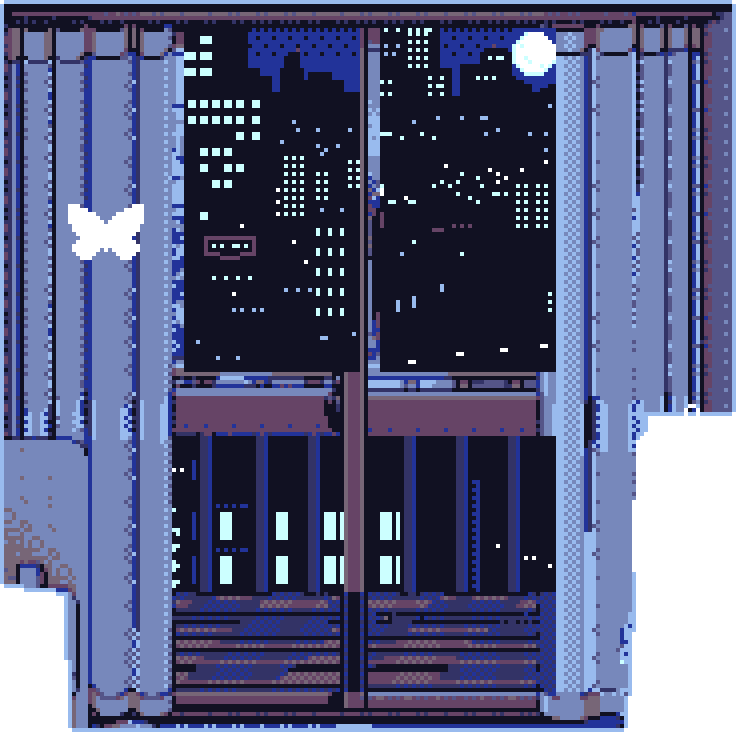
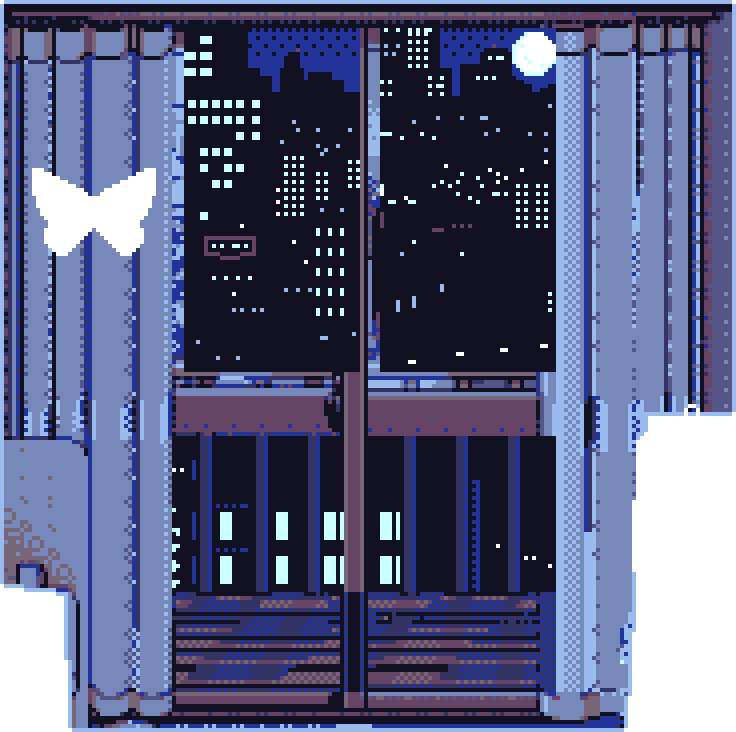
Panda's Room: object size follows how much each account gets used
Art from pc98-assets 3e98b9b. The newspaper (Substack, rank 4) is now an open broadsheet in the moonlit patch on the
floor, 2.5x its old size and fourth largest; the phone (rank 2) is as big as a phone on a bed can be, with a chat
open and its light on the sheets (4.6x the hotspot); the butterfly and letter grew; the TV, console, Kitsu tapes (now
on the TV) and Bump map shrank. Every hotspot keeps at least 96% of its own pixels.

Changed region(s): [[0.0312, 0.2104, 0.2188, 0.3607]]

diff --git a/js/room-data.js b/js/room-data.js
@@ -16,11 +16,11 @@
 // Keep each box <= 48 characters and use straight quotes (the pc-98 font draws curly ones full-width).
 window.ROOM = {
     scene: {
-        src: "/img/room/room@4x.png?v=5",
+        src: "/img/room/room@4x.png?v=6",
         width: 500,
         height: 357,
         // city lights: an 8-frame strip stepped like PC-98 palette cycling (the export's twinkle.json)
-        twinkle: { src: "/img/room/twinkle@4x.png?v=5", x: 191, y: 68, w: 92, h: 87, frames: 8, fps: 2 }
+        twinkle: { src: "/img/room/twinkle@4x.png?v=6", x: 191, y: 68, w: 92, h: 87, frames: 8, fps: 2 }
     },
 
     zOrder: ["controller", "kitsu", "tv", "butterfly", "linkedin", "letter", "stackoverflow", "phone", "lesswrong",
@@ -38,9 +38,9 @@ window.ROOM = {
             name: "Window",
             service: "Twitter",
             rank: 1,
-            polygon: [[146, 60], [328, 60], [328, 162], [308, 162], [306, 164], [306, 168], [304, 169], [301, 241], [163, 241], [162, 209], [159, 206], [146, 205], [146, 61]],
-            anchor: [233, 145],
-            lit: { src: "/img/room/lit/window@4x.png?v=5", x: 145, y: 59, w: 184, h: 183 },
+            polygon: [[146, 60], [328, 60], [328, 162], [320, 162], [319, 160], [317, 160], [316, 162], [308, 162], [308, 163], [306, 164], [306, 168], [304, 169], [304, 184], [303, 184], [303, 217], [302, 217], [302, 233], [301, 233], [301, 241], [163, 241], [163, 224], [162, 224], [162, 209], [161, 209], [161, 208], [160, 208], [159, 206], [151, 206], [151, 205], [146, 205], [146, 61]],
+            anchor: [234, 146],
+            lit: { src: "/img/room/lit/window@4x.png?v=6", x: 145, y: 59, w: 184, h: 183 },
             hover: "E-everything looks so p-pretty at night...",
             click: [
                 "The town, the people... we're all family.",
@@ -57,10 +57,9 @@ window.ROOM = {
             name: "Phone",
             service: "Discord / Signal",
             rank: 2,
-            polygon: [[102, 236], [118, 239], [118, 241], [113, 245], [107, 246], [95, 244], [95, 242], [102, 237]],
-            anchor: [106, 241],
-            lit: { src: "/img/room/lit/phone@4x.png?v=5", x: 94, y: 235, w: 25, h: 12 },
-            hit: [[90, 231], [123, 231], [123, 251], [90, 251]], // padded: the object itself is tiny
+            polygon: [[112, 249], [124, 249], [124, 250], [132, 250], [132, 251], [138, 251], [138, 252], [139, 252], [139, 256], [138, 256], [138, 257], [137, 257], [137, 258], [136, 258], [136, 259], [135, 259], [135, 260], [134, 260], [134, 261], [133, 261], [133, 262], [132, 262], [132, 263], [131, 263], [131, 264], [130, 264], [130, 265], [129, 265], [128, 267], [126, 267], [125, 269], [119, 270], [119, 271], [113, 271], [113, 270], [107, 270], [107, 269], [101, 269], [101, 268], [94, 268], [94, 267], [92, 266], [92, 264], [93, 264], [93, 262], [94, 262], [95, 260], [97, 260], [97, 259], [98, 259], [98, 258], [99, 258], [100, 256], [102, 256], [102, 255], [103, 255], [104, 253], [106, 253], [107, 251], [109, 251], [109, 250], [112, 250]],
+            anchor: [115, 259],
+            lit: { src: "/img/room/lit/phone@4x.png?v=6", x: 91, y: 248, w: 49, h: 24 },
             hover: "Eh? My phone's buzzing... is that you?",
             click: [
                 "On Discord, you can call me vivalapanda.",
@@ -78,9 +77,9 @@ window.ROOM = {
             name: "PC",
             service: "GitHub",
             rank: 3,
-            polygon: [[373, 135], [421, 136], [428, 138], [428, 180], [424, 184], [431, 187], [431, 192], [390, 192], [390, 189], [387, 186], [381, 184], [386, 180], [382, 176], [375, 175], [375, 138], [373, 136]],
+            polygon: [[373, 135], [396, 135], [396, 136], [421, 136], [421, 137], [425, 137], [425, 138], [428, 138], [428, 180], [427, 180], [427, 181], [426, 181], [426, 182], [425, 182], [424, 184], [425, 184], [426, 186], [429, 186], [429, 187], [431, 187], [431, 192], [390, 192], [390, 189], [389, 189], [389, 188], [388, 188], [387, 186], [385, 186], [385, 185], [381, 184], [381, 183], [384, 183], [384, 182], [385, 182], [386, 180], [385, 180], [385, 179], [384, 179], [384, 178], [383, 178], [382, 176], [376, 176], [376, 175], [375, 175], [375, 138], [374, 138], [374, 136], [373, 136]],
             anchor: [402, 161],
-            lit: { src: "/img/room/lit/pc@4x.png?v=5", x: 372, y: 134, w: 60, h: 59 },
+            lit: { src: "/img/room/lit/pc@4x.png?v=6", x: 372, y: 134, w: 60, h: 59 },
             hover: "I keep falling asleep at that computer...",
             click: [
                 "My true love has always been my computer.",
@@ -97,9 +96,9 @@ window.ROOM = {
             name: "Newspaper",
             service: "Substack",
             rank: 4,
-            polygon: [[86, 246], [127, 249], [127, 251], [106, 271], [98, 271], [60, 268], [61, 264], [86, 247]],
-            anchor: [94, 258],
-            lit: { src: "/img/room/lit/newspaper@4x.png?v=5", x: 59, y: 245, w: 69, h: 27 },
+            polygon: [[240, 294], [249, 294], [249, 295], [260, 295], [260, 296], [270, 296], [270, 297], [281, 297], [281, 298], [291, 298], [291, 299], [296, 299], [296, 303], [297, 303], [297, 310], [298, 310], [298, 317], [299, 317], [299, 325], [300, 325], [300, 332], [301, 332], [301, 339], [302, 339], [302, 344], [297, 344], [297, 343], [289, 343], [289, 342], [281, 342], [281, 341], [272, 341], [272, 340], [264, 340], [264, 339], [255, 339], [255, 338], [247, 338], [247, 337], [239, 337], [239, 336], [234, 336], [234, 330], [235, 330], [235, 324], [236, 324], [236, 318], [237, 318], [237, 312], [238, 312], [238, 306], [239, 306], [239, 300], [240, 300], [240, 295]],
+            anchor: [268, 318],
+            lit: { src: "/img/room/lit/newspaper@4x.png?v=6", x: 233, y: 293, w: 70, h: 52 },
             hover: "Heh. Who knew my essays could be interesting?",
             click: [
                 "I write about cities on my Substack.",
@@ -116,9 +115,9 @@ window.ROOM = {
             name: "Bookshelf",
             service: "Reading list",
             rank: 5,
-            polygon: [[468, 65], [472, 65], [472, 316], [464, 308], [459, 306], [455, 300], [439, 286], [439, 255], [431, 250], [431, 73], [468, 66]],
-            anchor: [452, 181],
-            lit: { src: "/img/room/lit/bookshelf@4x.png?v=5", x: 430, y: 64, w: 43, h: 252 },
+            polygon: [[468, 65], [472, 65], [472, 318], [471, 318], [471, 317], [470, 317], [470, 316], [469, 316], [468, 314], [466, 314], [466, 313], [465, 313], [465, 312], [464, 312], [464, 311], [463, 311], [463, 310], [462, 310], [462, 309], [461, 309], [461, 308], [460, 308], [460, 307], [459, 307], [458, 305], [456, 305], [456, 304], [455, 304], [455, 303], [454, 303], [454, 302], [453, 302], [453, 301], [452, 301], [452, 300], [451, 300], [451, 299], [450, 299], [450, 298], [449, 298], [449, 297], [448, 297], [448, 296], [447, 296], [446, 294], [444, 294], [444, 293], [443, 293], [443, 292], [442, 292], [442, 291], [441, 291], [441, 290], [440, 290], [440, 289], [439, 289], [438, 287], [436, 287], [436, 261], [435, 261], [434, 259], [432, 259], [432, 258], [431, 258], [431, 73], [433, 73], [433, 72], [438, 72], [438, 71], [443, 71], [443, 70], [448, 70], [448, 69], [453, 69], [453, 68], [458, 68], [458, 67], [463, 67], [463, 66], [468, 66]],
+            anchor: [452, 183],
+            lit: { src: "/img/room/lit/bookshelf@4x.png?v=6", x: 430, y: 64, w: 43, h: 255 },
             hover: "If it's books you want, leave it to me.",
             click: [
                 "My reading list isn't ready yet. Soon!",
@@ -134,10 +133,10 @@ window.ROOM = {
             name: "Butterfly",
             service: "Bluesky",
             rank: 6,
-            polygon: [[162, 110], [169, 112], [171, 115], [174, 112], [181, 110], [181, 115], [178, 118], [180, 122], [178, 124], [175, 124], [173, 121], [165, 124], [163, 122], [165, 118], [162, 115], [162, 111]],
-            anchor: [171, 116],
-            lit: { src: "/img/room/lit/butterfly@4x.png?v=5", x: 161, y: 109, w: 21, h: 16 },
-            hit: [[159, 107], [184, 107], [184, 127], [159, 127]], // padded, so it's easy to catch
+            polygon: [[153, 101], [156, 101], [156, 102], [158, 102], [158, 103], [160, 103], [160, 104], [162, 104], [162, 105], [166, 106], [167, 108], [170, 108], [171, 106], [173, 106], [173, 105], [175, 105], [175, 104], [177, 104], [177, 103], [179, 103], [179, 102], [181, 102], [181, 101], [184, 101], [184, 108], [183, 108], [183, 111], [182, 111], [182, 113], [180, 114], [180, 116], [181, 116], [181, 120], [180, 120], [180, 121], [179, 121], [178, 123], [175, 123], [175, 122], [174, 122], [174, 121], [173, 121], [173, 120], [172, 120], [172, 119], [171, 119], [171, 118], [170, 118], [169, 116], [168, 116], [168, 117], [167, 117], [167, 118], [166, 118], [166, 119], [165, 119], [165, 120], [164, 120], [164, 121], [163, 121], [162, 123], [159, 123], [159, 122], [158, 122], [158, 121], [156, 120], [156, 116], [157, 116], [157, 114], [156, 114], [156, 113], [155, 113], [155, 111], [154, 111], [154, 108], [153, 108], [153, 102]],
+            anchor: [168, 111],
+            lit: { src: "/img/room/lit/butterfly@4x.png?v=6", x: 152, y: 100, w: 33, h: 24 },
+            hit: [[153, 101], [156, 101], [156, 102], [158, 102], [158, 103], [160, 103], [160, 104], [162, 104], [162, 105], [166, 106], [167, 108], [170, 108], [171, 106], [173, 106], [173, 105], [175, 105], [175, 104], [177, 104], [177, 103], [179, 103], [179, 102], [181, 102], [181, 101], [184, 101], [184, 108], [183, 108], [183, 111], [182, 111], [182, 113], [180, 114], [180, 116], [181, 116], [181, 120], [180, 120], [180, 121], [179, 121], [178, 123], [175, 123], [175, 122], [174, 122], [174, 121], [173, 121], [173, 120], [172, 120], [172, 119], [171, 119], [171, 118], [170, 118], [169, 116], [168, 116], [168, 117], [167, 117], [167, 118], [166, 118], [166, 119], [165, 119], [165, 120], [164, 120], [164, 121], [163, 121], [162, 123], [159, 123], [159, 122], [158, 122], [158, 121], [156, 120], [156, 116], [157, 116], [157, 114], [156, 114], [156, 113], [155, 113], [155, 111], [154, 111], [154, 108], [153, 108], [153, 102]], // padded, so it's easy to catch
             hover: "I love butterflies. They are the best animal.",
             click: [
                 "That one's my Bluesky. I'm there sometimes.",
@@ -154,9 +153,9 @@ window.ROOM = {
             name: "TV",
             service: "Letterboxd",
             rank: 7,
-            polygon: [[388, 239], [404, 239], [416, 245], [426, 245], [431, 250], [436, 252], [439, 255], [439, 286], [455, 300], [455, 302], [430, 302], [428, 307], [422, 307], [418, 304], [419, 302], [415, 298], [404, 298], [403, 300], [397, 300], [388, 289], [388, 240]],
-            anchor: [414, 273],
-            lit: { src: "/img/room/lit/tv@4x.png?v=5", x: 387, y: 238, w: 69, h: 70 },
+            polygon: [[388, 247], [392, 247], [392, 249], [394, 250], [394, 252], [395, 252], [395, 253], [396, 253], [396, 254], [397, 254], [397, 255], [398, 255], [398, 256], [399, 256], [399, 257], [400, 257], [400, 258], [401, 258], [401, 259], [402, 259], [402, 260], [403, 260], [404, 262], [430, 262], [430, 258], [429, 258], [428, 256], [430, 256], [430, 257], [431, 257], [432, 259], [434, 259], [434, 260], [436, 261], [436, 288], [437, 288], [437, 289], [438, 289], [438, 290], [439, 290], [439, 291], [440, 291], [440, 292], [441, 292], [441, 293], [442, 293], [443, 295], [445, 295], [445, 296], [446, 296], [446, 297], [447, 297], [447, 298], [448, 298], [448, 299], [450, 300], [450, 307], [418, 307], [418, 306], [416, 305], [416, 302], [408, 302], [408, 304], [403, 304], [403, 303], [402, 303], [402, 302], [401, 302], [401, 301], [399, 300], [399, 298], [398, 298], [398, 297], [397, 297], [397, 296], [395, 295], [395, 293], [394, 293], [394, 292], [392, 291], [392, 289], [391, 289], [391, 288], [390, 288], [390, 287], [388, 286], [388, 268], [389, 268], [389, 266], [388, 266], [388, 248]],
+            anchor: [415, 281],
+            lit: { src: "/img/room/lit/tv@4x.png?v=6", x: 387, y: 246, w: 64, h: 62 },
             hover: "You've found the television, then.",
             click: [
                 "Every movie I watch goes on my Letterboxd.",
@@ -173,10 +172,9 @@ window.ROOM = {
             name: "Letter",
             service: "Email",
             rank: 8,
-            polygon: [[349, 161], [368, 161], [368, 173], [349, 173], [349, 162]],
-            anchor: [358, 166],
-            lit: { src: "/img/room/lit/letter@4x.png?v=5", x: 348, y: 160, w: 21, h: 14 },
-            hit: [[346, 158], [371, 158], [371, 176], [346, 176]], // padded: the object itself is small
+            polygon: [[347, 155], [373, 155], [373, 173], [347, 173], [347, 156]],
+            anchor: [359, 163],
+            lit: { src: "/img/room/lit/letter@4x.png?v=6", x: 346, y: 154, w: 28, h: 20 },
             hover: "I wrote to my parents last week.",
             click: [
                 "You can write to me too! I'm at me@panda.moe.",
@@ -193,10 +191,10 @@ window.ROOM = {
             name: "Game console",
             service: "Steam",
             rank: 9,
-            polygon: [[403, 298], [416, 298], [420, 305], [436, 322], [436, 332], [405, 332], [401, 326], [394, 325], [398, 321], [389, 309], [389, 300], [403, 299]],
-            anchor: [403, 318],
-            lit: { src: "/img/room/lit/controller@4x.png?v=5", x: 339, y: 297, w: 98, h: 45 },
-            hit: [[338, 335], [342, 331], [389, 298], [403, 296], [416, 296], [418, 298], [435, 318], [438, 322], [438, 332], [436, 334], [360, 343], [342, 343], [338, 339]], // console, cartridge and pad
+            polygon: [[408, 302], [416, 302], [416, 305], [418, 306], [418, 308], [419, 308], [419, 309], [420, 309], [420, 310], [421, 310], [421, 311], [423, 312], [423, 314], [424, 314], [424, 315], [425, 315], [425, 316], [426, 316], [426, 317], [428, 318], [428, 320], [429, 320], [429, 321], [431, 322], [431, 330], [407, 330], [407, 329], [404, 329], [404, 330], [399, 330], [399, 329], [403, 329], [403, 328], [404, 328], [405, 326], [403, 325], [403, 323], [401, 322], [401, 320], [400, 320], [400, 319], [398, 318], [398, 316], [397, 316], [397, 315], [395, 314], [395, 312], [394, 312], [394, 304], [408, 304], [408, 303]],
+            anchor: [402, 321],
+            lit: { src: "/img/room/lit/controller@4x.png?v=6", x: 351, y: 301, w: 81, h: 44 },
+            hit: [[394, 302], [401, 302], [402, 304], [408, 304], [408, 302], [416, 302], [416, 305], [418, 306], [418, 308], [423, 308], [423, 309], [424, 309], [424, 310], [426, 311], [426, 313], [427, 313], [427, 314], [429, 315], [429, 317], [430, 317], [430, 318], [432, 319], [432, 321], [434, 322], [434, 331], [433, 331], [432, 333], [428, 333], [428, 334], [424, 334], [424, 335], [419, 335], [419, 336], [415, 336], [415, 337], [411, 337], [411, 338], [407, 338], [407, 339], [402, 339], [402, 340], [398, 340], [398, 341], [394, 341], [394, 342], [390, 342], [390, 343], [386, 343], [386, 344], [381, 344], [381, 345], [377, 345], [377, 346], [373, 346], [373, 347], [354, 347], [354, 346], [353, 346], [353, 345], [352, 345], [352, 344], [350, 343], [350, 338], [351, 338], [351, 337], [352, 337], [352, 336], [353, 336], [353, 335], [354, 335], [355, 333], [357, 333], [357, 332], [358, 332], [358, 331], [359, 331], [360, 329], [362, 329], [362, 328], [363, 328], [363, 327], [364, 327], [365, 325], [367, 325], [367, 324], [368, 324], [368, 323], [369, 323], [370, 321], [372, 321], [372, 320], [373, 320], [373, 319], [374, 319], [375, 317], [377, 317], [377, 316], [378, 316], [378, 315], [379, 315], [380, 313], [382, 313], [382, 312], [383, 312], [383, 311], [384, 311], [385, 309], [387, 309], [387, 308], [388, 308], [388, 307], [389, 307], [390, 305], [392, 305], [392, 304], [394, 303]], // console, cartridge and pad
             hover: "Eh? Just playing some Cities: Skylines.",
             click: [
                 "I play games rarely. ...Very rarely.",
@@ -214,9 +212,9 @@ window.ROOM = {
             name: "Tome",
             service: "LessWrong",
             rank: 10,
-            polygon: [[63, 233], [88, 235], [88, 243], [70, 255], [63, 256], [54, 254], [51, 257], [47, 253], [42, 253], [42, 245], [63, 234]],
+            polygon: [[63, 233], [71, 233], [71, 234], [82, 234], [82, 235], [88, 235], [88, 243], [87, 243], [87, 244], [85, 244], [84, 246], [82, 246], [81, 248], [79, 248], [78, 250], [74, 251], [74, 252], [73, 252], [73, 253], [71, 253], [70, 255], [68, 255], [68, 256], [63, 256], [63, 255], [55, 255], [55, 254], [54, 254], [54, 255], [53, 255], [53, 256], [51, 257], [51, 256], [50, 256], [49, 254], [47, 254], [47, 253], [42, 253], [42, 245], [43, 245], [43, 244], [45, 244], [46, 242], [48, 242], [48, 241], [50, 241], [50, 240], [54, 239], [55, 237], [57, 237], [57, 236], [59, 236], [59, 235], [63, 234]],
             anchor: [64, 244],
-            lit: { src: "/img/room/lit/lesswrong@4x.png?v=5", x: 41, y: 232, w: 48, h: 27 },
+            lit: { src: "/img/room/lit/lesswrong@4x.png?v=6", x: 41, y: 232, w: 48, h: 27 },
             hover: "Ah, now I started thinking again. This is bad.",
             click: [
                 "My nerdier essays go up on LessWrong.",
@@ -233,9 +231,9 @@ window.ROOM = {
             name: "Blazer",
             service: "LinkedIn",
             rank: 11,
-            polygon: [[317, 160], [320, 161], [319, 163], [321, 165], [329, 169], [330, 201], [329, 204], [324, 203], [316, 196], [307, 204], [304, 204], [303, 202], [304, 169], [317, 161]],
+            polygon: [[316, 161], [317, 161], [317, 163], [320, 163], [321, 165], [323, 165], [323, 166], [325, 166], [325, 167], [327, 167], [327, 168], [329, 169], [329, 184], [330, 184], [330, 201], [329, 201], [329, 204], [327, 204], [327, 203], [324, 203], [324, 202], [323, 202], [323, 201], [321, 201], [321, 200], [320, 200], [320, 199], [319, 199], [319, 198], [318, 198], [317, 196], [316, 196], [316, 197], [315, 197], [315, 198], [314, 198], [314, 199], [313, 199], [312, 201], [310, 201], [309, 203], [307, 203], [307, 204], [304, 204], [304, 202], [303, 202], [303, 184], [304, 184], [304, 169], [305, 169], [306, 167], [308, 167], [309, 165], [311, 165], [311, 164], [314, 164], [314, 163], [316, 163], [316, 162]],
             anchor: [316, 183],
-            lit: { src: "/img/room/lit/linkedin@4x.png?v=5", x: 302, y: 159, w: 29, h: 46 },
+            lit: { src: "/img/room/lit/linkedin@4x.png?v=6", x: 302, y: 159, w: 29, h: 46 },
             hover: "Is it hard, being an adult?",
             click: [
                 "I wear it to interviews. And on LinkedIn.",
@@ -252,9 +250,9 @@ window.ROOM = {
             name: "Anime tapes",
             service: "Kitsu",
             rank: 12,
-            polygon: [[428, 302], [456, 302], [481, 324], [481, 328], [478, 328], [476, 331], [445, 331], [431, 315], [431, 309], [428, 307], [428, 303]],
-            anchor: [453, 316],
-            lit: { src: "/img/room/lit/kitsu@4x.png?v=5", x: 427, y: 301, w: 55, h: 31 },
+            polygon: [[392, 245], [416, 245], [416, 246], [418, 246], [418, 247], [419, 247], [420, 249], [422, 249], [422, 250], [423, 250], [424, 252], [426, 252], [426, 253], [428, 254], [428, 257], [430, 258], [430, 262], [404, 262], [404, 261], [403, 261], [403, 260], [402, 260], [402, 259], [401, 259], [401, 258], [400, 258], [400, 257], [399, 257], [399, 256], [398, 256], [398, 255], [397, 255], [397, 254], [396, 254], [396, 253], [394, 252], [394, 250], [392, 249], [392, 246]],
+            anchor: [411, 253],
+            lit: { src: "/img/room/lit/kitsu@4x.png?v=6", x: 391, y: 244, w: 40, h: 19 },
             hover: "Gaze upon my anime tapes and despair!",
             click: [
                 "Kitsu says I've watched 93 days of anime.",
@@ -273,10 +271,10 @@ window.ROOM = {
             name: "Rubber duck",
             service: "Stack Overflow",
             rank: 13,
-            polygon: [[374, 177], [378, 177], [381, 180], [381, 185], [379, 187], [370, 187], [368, 185], [368, 181], [371, 183], [374, 178]],
+            polygon: [[374, 177], [378, 177], [378, 178], [379, 178], [379, 179], [381, 180], [381, 181], [380, 181], [381, 185], [380, 185], [379, 187], [370, 187], [370, 186], [368, 185], [368, 181], [369, 181], [369, 182], [371, 183], [371, 182], [373, 181], [373, 178], [374, 178]],
             anchor: [375, 182],
-            lit: { src: "/img/room/lit/stackoverflow@4x.png?v=5", x: 367, y: 176, w: 15, h: 12 },
-            hit: [[366, 175], [383, 175], [383, 189], [366, 189]], // padded: the duck is tiny
+            lit: { src: "/img/room/lit/stackoverflow@4x.png?v=6", x: 367, y: 176, w: 15, h: 12 },
+            hit: [[373, 175], [375, 175], [376, 177], [381, 177], [381, 178], [382, 178], [382, 179], [384, 180], [383, 182], [381, 182], [381, 185], [383, 185], [383, 186], [382, 186], [382, 187], [381, 187], [381, 188], [380, 188], [379, 190], [370, 190], [370, 189], [369, 189], [369, 188], [368, 188], [368, 187], [367, 187], [367, 186], [365, 185], [365, 181], [366, 181], [366, 180], [367, 180], [368, 178], [370, 179], [370, 178], [371, 178], [371, 177], [373, 176]], // padded: the duck is tiny
             hover: "You think rubber ducks are creepy?",
             click: [
                 "I asked the duck for an answer. It was no use.",
@@ -293,9 +291,9 @@ window.ROOM = {
             name: "City map",
             service: "Bump",
             rank: 14,
-            polygon: [[346, 23], [382, 23], [382, 47], [346, 47], [346, 24]],
-            anchor: [363, 34],
-            lit: { src: "/img/room/lit/bump@4x.png?v=5", x: 345, y: 22, w: 38, h: 26 },
+            polygon: [[352, 27], [377, 27], [377, 44], [352, 44], [352, 28]],
+            anchor: [364, 35],
+            lit: { src: "/img/room/lit/bump@4x.png?v=6", x: 351, y: 26, w: 27, h: 19 },
             hover: "I'm not lost. I just don't know where I am.",
             click: [
                 "On Bump, my friends are pins on a map.",
@@ -314,9 +312,9 @@ window.ROOM = {
         {
             id: "plush",
             name: "Panda plush",
-            polygon: [[38, 167], [43, 168], [45, 171], [54, 171], [58, 167], [63, 168], [64, 173], [62, 178], [64, 180], [64, 185], [59, 193], [65, 198], [65, 203], [60, 207], [61, 210], [59, 212], [55, 211], [54, 213], [45, 213], [44, 211], [40, 212], [38, 210], [39, 207], [34, 203], [34, 198], [40, 193], [35, 185], [35, 180], [37, 178], [35, 170], [38, 168]],
+            polygon: [[38, 167], [41, 167], [41, 168], [43, 168], [43, 169], [44, 169], [45, 171], [54, 171], [54, 170], [55, 170], [56, 168], [58, 168], [58, 167], [61, 167], [61, 168], [63, 168], [63, 170], [64, 170], [64, 173], [63, 173], [63, 175], [62, 175], [62, 178], [63, 178], [63, 180], [64, 180], [64, 185], [63, 185], [62, 189], [61, 189], [61, 190], [59, 191], [59, 193], [60, 193], [60, 194], [61, 194], [61, 195], [62, 195], [62, 196], [63, 196], [63, 197], [65, 198], [65, 203], [64, 203], [64, 204], [63, 204], [63, 205], [62, 205], [62, 206], [60, 207], [60, 209], [61, 209], [61, 210], [60, 210], [59, 212], [56, 212], [56, 211], [55, 211], [54, 213], [45, 213], [44, 211], [43, 211], [43, 212], [40, 212], [40, 211], [38, 210], [38, 209], [39, 209], [39, 207], [38, 207], [38, 206], [37, 206], [37, 205], [36, 205], [36, 204], [34, 203], [34, 198], [35, 198], [35, 197], [36, 197], [36, 196], [37, 196], [37, 195], [38, 195], [38, 194], [40, 193], [40, 191], [39, 191], [39, 190], [37, 189], [37, 187], [36, 187], [36, 185], [35, 185], [35, 180], [36, 180], [36, 178], [37, 178], [37, 175], [36, 175], [36, 173], [35, 173], [35, 170], [36, 170], [36, 168], [38, 168]],
             anchor: [49, 190],
-            lit: { src: "/img/room/lit/plush@4x.png?v=5", x: 33, y: 166, w: 33, h: 48 },
+            lit: { src: "/img/room/lit/plush@4x.png?v=6", x: 33, y: 166, w: 33, h: 48 },
             hover: "The panda says, 'Gao, gao!'",
             lines: [
                 "He's the original Panda. I'm the sequel.",
@@ -328,7 +326,7 @@ window.ROOM = {
             name: "Poster",
             polygon: [[64, 67], [131, 67], [131, 150], [64, 150], [64, 68]],
             anchor: [97, 108],
-            lit: { src: "/img/room/lit/poster@4x.png?v=5", x: 63, y: 66, w: 69, h: 85 },
+            lit: { src: "/img/room/lit/poster@4x.png?v=6", x: 63, y: 66, w: 69, h: 85 },
             hover: "Cuteness wins in the end. Cuteness is justice!",
             lines: [
                 "That's my favorite magical girl!",
